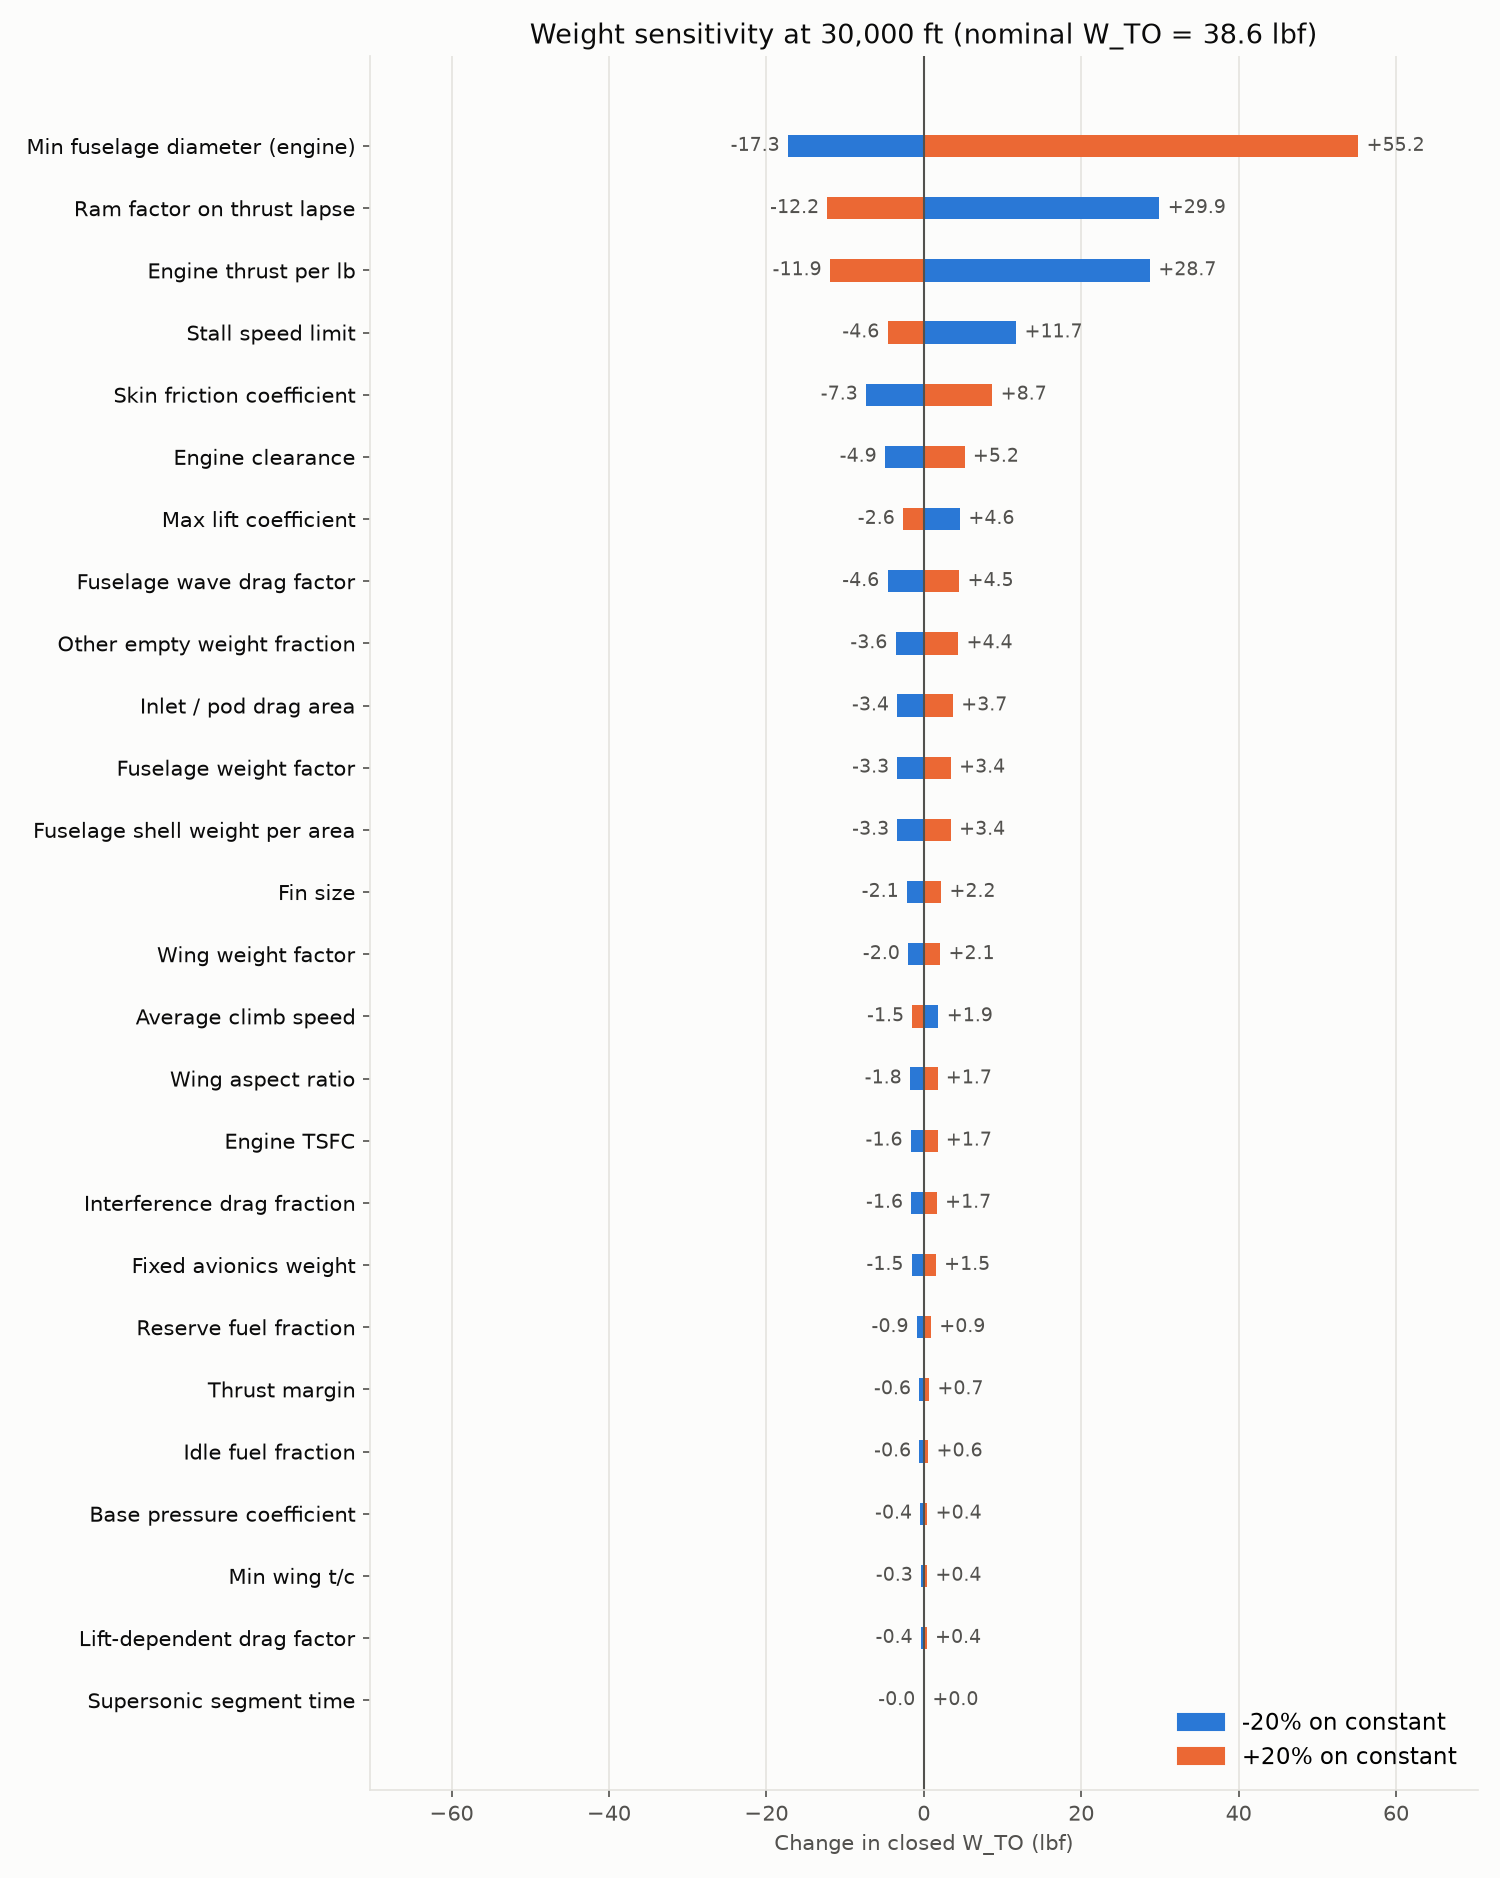
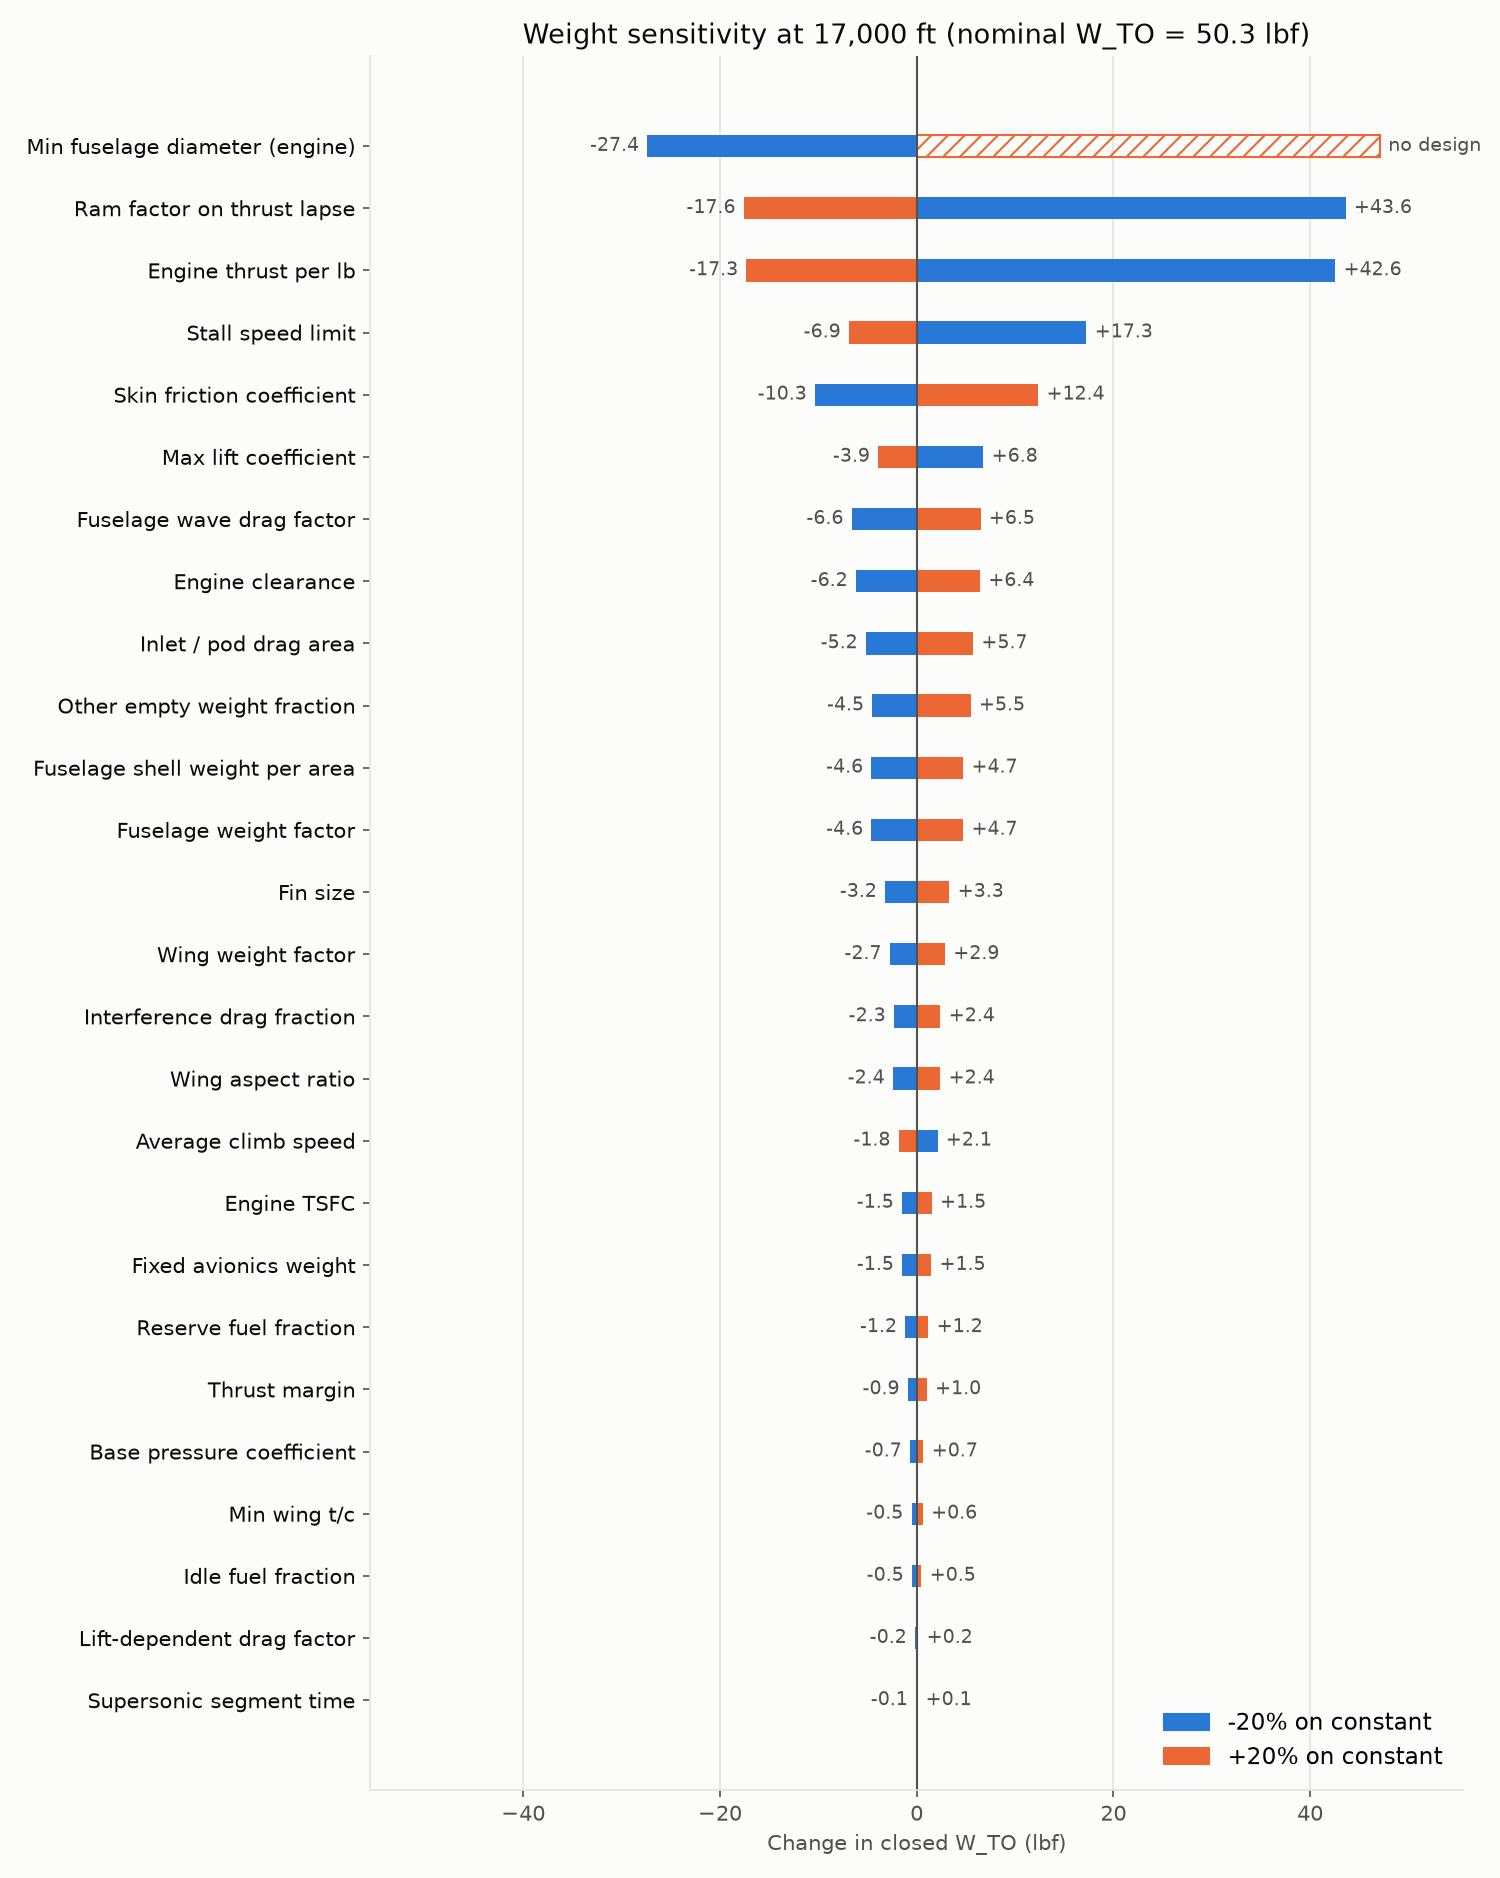
Performance model #3: P650 baseline at 17,000 ft, refined altitude sweep with P650, tornado around it
- inputs.py: JetCat P650-PRO-S-R, dash at 17,000 ft (50.3 lb), the lowest dash under 55 lb within q_max
- weight_vs_altitude: 1,000 ft steps, each engine solved downward from its last closed design, P650 added
- mission_sim: catalogue-engine solves accept a starting point

diff --git a/Performance model #3/weigth closure/studies/weight_vs_altitude.py b/Performance model #3/weigth closure/studies/weight_vs_altitude.py
@@ -1,37 +1,61 @@
 # Study 3: closed takeoff weight vs dash altitude, one curve per catalogue engine.
 # How low can each engine dash, and what does a lower dash cost in weight? Everything else is inputs.py,
 # with the weight cap relaxed to 150 lb and the dynamic-pressure limit lifted (its altitude is drawn).
-#   python studies/weight_vs_altitude.py                    # 0 - 36,000 ft every 2,000 ft
+#   python studies/weight_vs_altitude.py                    # 0 - 36,000 ft every 1,000 ft
 #   python studies/weight_vs_altitude.py 10000 36000 1000
+#   python studies/weight_vs_altitude.py --replot            # redraw from the last CSV
 import csv
 import math
 import sys
 
 import numpy as np
 
+from concurrent.futures import ProcessPoolExecutor
+
 from _common import (ENGINES, INK_2, MARKERS, SERIES, W_CAP, W_LIMIT, PLOT_DIR, altitude_at_q, baseline,
-                     plt, run_all, save, style)
+                     plt, save, solve, style)
+
+
+def descend(args):
+    """One engine, highest altitude first; each solve starts from the last design that closed, so the
+    curve follows the design family down to where the engine runs out of thrust."""
+    engine, heights, m = args
+    out, seed = {}, None
+    for h in sorted(heights, reverse=True):
+        job = ("", h, m, engine) + ((seed,) if seed else ())
+        _, _, _, r, _ = solve(job)
+        out[h] = r
+        seed = r or seed
+    return engine, out
 
 if __name__ == "__main__":
-    lo, hi, step = (float(x) for x in sys.argv[1:4]) if len(sys.argv) > 3 else (0.0, 36000.0, 2000.0)
+    args = [a for a in sys.argv[1:] if not a.startswith("--")]
+    lo, hi, step = (float(x) for x in args[:3]) if len(args) > 2 else (0.0, 36000.0, 1000.0)
     heights = [float(h) for h in np.arange(lo, hi + 1, step)]
     q_user = baseline().q_max
     m = baseline(q_max=math.inf)
-    results = run_all([("", h, m, e) for e in ENGINES for h in heights])
-
-    table = {e: {} for e in ENGINES}
-    for _, h, e, r, _ in results:
-        table[e][h] = r
+    if "--replot" in sys.argv:          # redraw from the last CSV without solving
+        table = {e: {h: None for h in heights} for e in ENGINES}
+        with open(PLOT_DIR / "weight_vs_altitude.csv") as f:
+            for row in csv.DictReader(f):
+                if row["engine"] in table and row["W_TO_lb"]:
+                    table[row["engine"]][float(row["altitude_ft"])] = {"W_TO": float(row["W_TO_lb"])}
+        replot = True
+    else:
+        with ProcessPoolExecutor(max_workers=len(ENGINES)) as pool:
+            table = dict(pool.map(descend, [(e, heights, m) for e in ENGINES]))
+        replot = False
     PLOT_DIR.mkdir(parents=True, exist_ok=True)
-    with open(PLOT_DIR / "weight_vs_altitude.csv", "w", newline="") as f:
-        w = csv.writer(f)
-        w.writerow(["engine", "altitude_ft", "W_TO_lb", "S_ft2", "L_fus_ft", "d_fus_in", "drag_lbf", "fuel_lb"])
-        for e in ENGINES:
-            for h in heights:
-                r = table[e][h]
-                w.writerow([e, h] + ([round(r["W_TO"], 3), round(r["S"], 4), round(r["L_fus"], 3),
-                                      round(r["d_fus"] * 12, 2), round(r["D"], 2),
-                                      round(r["W_TO"] - r["W_ZF"], 3)] if r else ["", "", "", "", "", ""]))
+    if not replot:
+        with open(PLOT_DIR / "weight_vs_altitude.csv", "w", newline="") as f:
+            w = csv.writer(f)
+            w.writerow(["engine", "altitude_ft", "W_TO_lb", "S_ft2", "L_fus_ft", "d_fus_in", "drag_lbf", "fuel_lb"])
+            for e in ENGINES:
+                for h in heights:
+                    r = table[e][h]
+                    w.writerow([e, h] + ([round(r["W_TO"], 3), round(r["S"], 4), round(r["L_fus"], 3),
+                                          round(r["d_fus"] * 12, 2), round(r["D"], 2),
+                                          round(r["W_TO"] - r["W_ZF"], 3)] if r else ["", "", "", "", "", ""]))
 
     print(f"Closed W_TO (lb) vs dash altitude, Mach {m.M:g}, cap {W_CAP:g} lb ('-' = no design under the cap)")
     print("  altitude " + "".join(f"{e.split('-')[0]:>9s}" for e in ENGINES))
@@ -44,15 +68,20 @@ if __name__ == "__main__":
 
     fig, ax = plt.subplots(figsize=(9, 5.5))
     style(ax, f"Closed takeoff weight vs dash altitude (Mach {m.M:g}, inputs.py, {m.accel_margin:.0%} thrust margin)")
+    ends = []
     for i, e in enumerate(ENGINES):
         pts = [(h / 1000, table[e][h]["W_TO"]) for h in heights if table[e][h]]
         if not pts:
             continue
         xs, ys = zip(*pts)
         ax.plot(xs, ys, color=SERIES[i], marker=MARKERS[i], markersize=6, linewidth=2,
-                markeredgecolor="#fcfcfb", markeredgewidth=1.5, label=e)
-        ax.annotate(e.split("-")[0], (xs[-1], ys[-1]), xytext=(6, 0), textcoords="offset points",
-                    va="center", fontsize=9, color=INK_2)
+                markeredgecolor="#fcfcfb", markeredgewidth=1.0, label=e)
+        ends.append([ys[-1], xs[-1], e.split("-")[0]])
+    ends.sort()                          # direct labels at the line ends, pushed apart by >= 1.6 lb
+    for k in range(1, len(ends)):
+        ends[k][0] = max(ends[k][0], ends[k - 1][0] + 1.6)
+    for y, x, name in ends:
+        ax.annotate(name, (x, y), xytext=(6, 0), textcoords="offset points", va="center", fontsize=9, color=INK_2)
     ax.axhline(W_LIMIT, color=INK_2, linestyle="--", linewidth=1)
     ax.annotate(f"{W_LIMIT:g} lb limit", (lo / 1000, W_LIMIT), xytext=(4, 4), textcoords="offset points",
                 fontsize=9, color=INK_2)

diff --git a/Performance model #3/weigth closure/studies/_common.py b/Performance model #3/weigth closure/studies/_common.py
@@ -20,12 +20,13 @@ from mission_sim import build_mission, solve_mission
 W_CAP = 150.0          # relaxed takeoff-weight cap for exploring the design space
 W_LIMIT = 55.0         # the real requirement (Part 107), drawn as a reference line
 # Catalogue engines spanning the useful range (the continuous engine fit misses designs these close)
-ENGINES = ["P220-PRO", "P400-PRO-LN", "P550-PRO-S", "P900-PRO-S-O-R", "P1000-PRO"]
+ENGINES = ["P220-PRO", "P400-PRO-LN", "P550-PRO-S", "P650-PRO-S-R", "P900-PRO-S-O-R", "P1000-PRO"]
+# (The P850 is in the catalogue as "200 lbf class" only: no weight, TSFC or diameter, so it is not sized.)
 PLOT_DIR = HERE.parent / "plots" / "studies"
 
 # Reference categorical palette (dataviz skill, light mode), fixed order; text and grid in neutral inks
-SERIES = ["#2a78d6", "#eb6834", "#1baf7a", "#eda100", "#e87ba4"]
-MARKERS = ["o", "s", "^", "D", "v"]
+SERIES = ["#2a78d6", "#eb6834", "#1baf7a", "#eda100", "#e87ba4", "#008300"]
+MARKERS = ["o", "s", "^", "h", "D", "v"]
 SURFACE, INK, INK_2, GRID = "#fcfcfb", "#0b0b0b", "#52514e", "#e4e3df"
 
 

diff --git a/Performance model #3/weigth closure/inputs.py b/Performance model #3/weigth closure/inputs.py
@@ -15,10 +15,10 @@ from missionsweep import MissionCase
 # ======================
 # Mission and run setup
 # ======================
-ALTITUDE = 30000.0       # lowest closing dash altitude with the P400 (studies/lowest_altitude.py); was None
+ALTITUDE = 17000.0       # lowest dash altitude under 55 lb within q_max 800 psf (P650, studies/weight_vs_altitude.py)
 #   dash altitude, ft. None: the GP chooses it (troposphere only, within the
                          # limits below), then re-solves the exact model there. A number pins it.
-ENGINE = "P400-PRO-LN"   # pinned: the continuous fit misses designs a real engine closes; was None
+ENGINE = "P650-PRO-S-R"  # pinned: closes under 55 lb down to 15,000 ft (P400: 30,000 ft)
 #   None: continuous engine fits. "auto": size around every catalogue engine and
                          # keep the lightest aircraft. A name, e.g. "P1000-PRO": pin that engine.
 

diff --git a/Performance model #3/weigth closure/mission_sim.py b/Performance model #3/weigth closure/mission_sim.py
@@ -364,6 +364,9 @@ def solve_mission(model, initial_state=None):
     """
     import lcsolver
     if model.mission.engine_model:
+        for name, value in (initial_state or {}).items():    # optional starting point (e.g. a nearby solution)
+            if name in model.variables and np.isfinite(value) and value > 0:
+                model.variables[name].set_value(float(value))
         sol = lcsolver.solve(model.formulation)
         return model, sol, solution_state(model,sol)
     starts = [("small-aircraft guess",empirical_start(model)),

diff --git a/Performance model #3/README.md b/Performance model #3/README.md
@@ -11,10 +11,14 @@ lapse with installed-thrust losses, engine clearance, dynamic-pressure limit, th
 
 ## Current design (`python inputs.py`)
 
-39.9 lb, JetCat P400-PRO-LN, Mach 1 dash at 30,000 ft (the lowest altitude that closes with these
-inputs), 5 % thrust margin. Wing 1.55 ft^2, AR 2, 63 deg LE sweep (delta limit), t/c 0.03; fuselage
-7.4 ft x 6.8 in. Mach 1 drag 37 lbf, L/D 0.97. `k_pod` and `k_fin` are still placeholders that carry about
-a quarter of the drag; the testDrone CAD values are much lower.
+50.3 lb, JetCat P650-PRO-S-R, Mach 1 dash at 17,000 ft: the lowest dash under 55 lb that stays within the
+800 psf `q_max` placeholder (the P650 closes down to 15,000 ft at 52.4 lb; the P400 only to 30,000 ft).
+5 % thrust margin, rail launch with landing on legs, C_Lmax 1.3. Wing 2.01 ft^2, AR 2, span 24.1 in,
+56 deg LE sweep, t/c 0.03; fuselage 8.5 ft x 8.1 in. Mach 1 drag 87 lbf at q 771 psf.
+
+Wing area comes only from the landing stall constraint, S = 2 W_land / (rho_SL V_stall^2 C_Lmax); every other
+effect in the model shrinks the wing. Sweep comes from the drag / wing-weight trade (wing weight uses the
+quarter-chord sweep). No maneuver, wing-fuel or stability requirement sizes the wing yet.
 
 ## Layout
 
